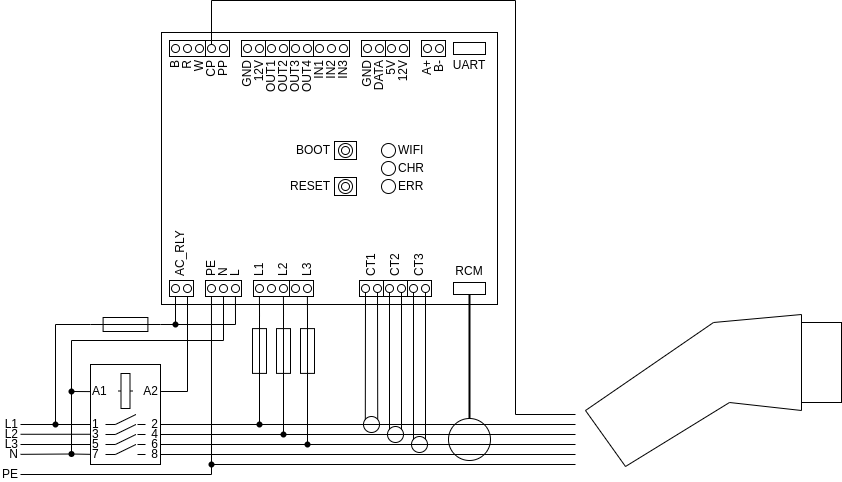
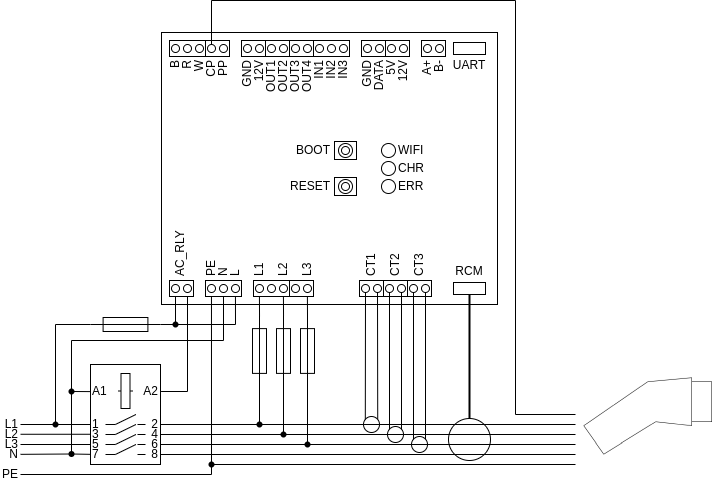
esp32s2da dark imgs

diff --git a/docs/10-hardware/esp32s2-evse-d-a.md b/docs/10-hardware/esp32s2-evse-d-a.md
@@ -125,12 +125,14 @@ Notes about the [onboard enegry meter](energy-metering.md) functionality:
 
 ### With socket outlet
 
-![Wiring socket outlet](/images/esp32s2da-wiring-lock.png)
+![Wiring socket outlet](/images/esp32s2da-wiring-lock.png#only-light)
+![Wiring socket outlet](/images/esp32s2da-wiring-lock-dark.png#only-dark)
 
 Set **Max charging current** to the value of the circuit breaker that protects the EVSE.
 
 ### With fixed cable
 
-![Wiring fixed cable](/images/esp32s2da-wiring-cable.png)
+![Wiring fixed cable](/images/esp32s2da-wiring-cable.png#only-light)
+![Wiring fixed cable](/images/esp32s2da-wiring-cable-dark.png#only-dark)
 
 Set **Max charging current** to the lower value of the circuit breaker that protects the EVSE or cable maximum current.